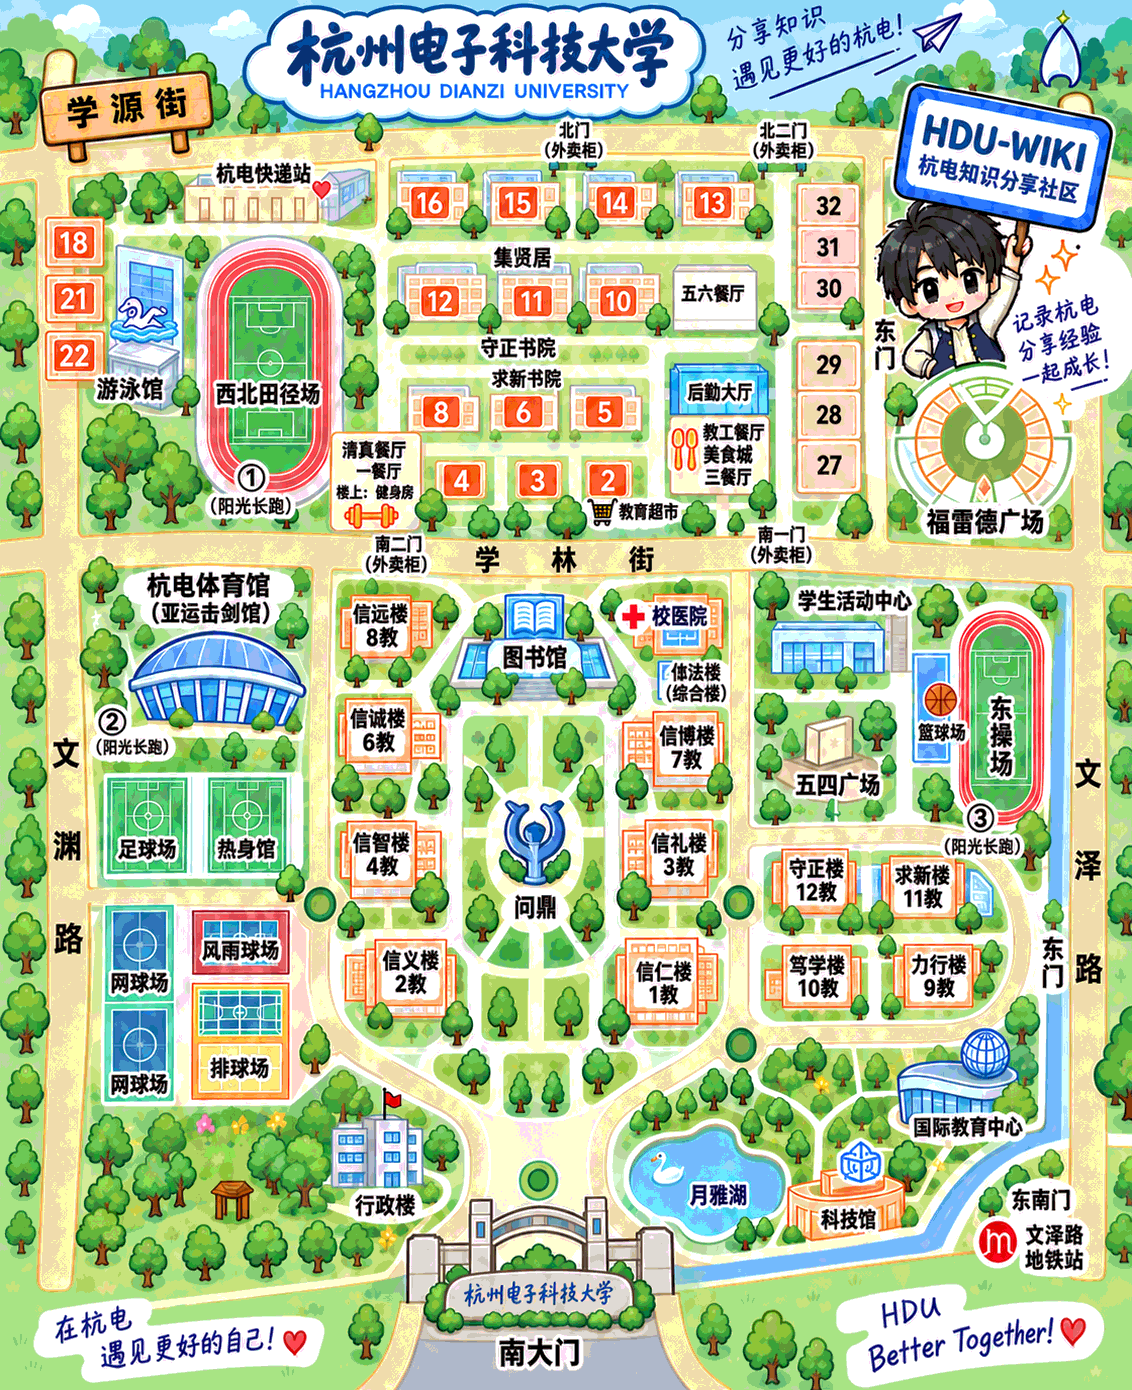
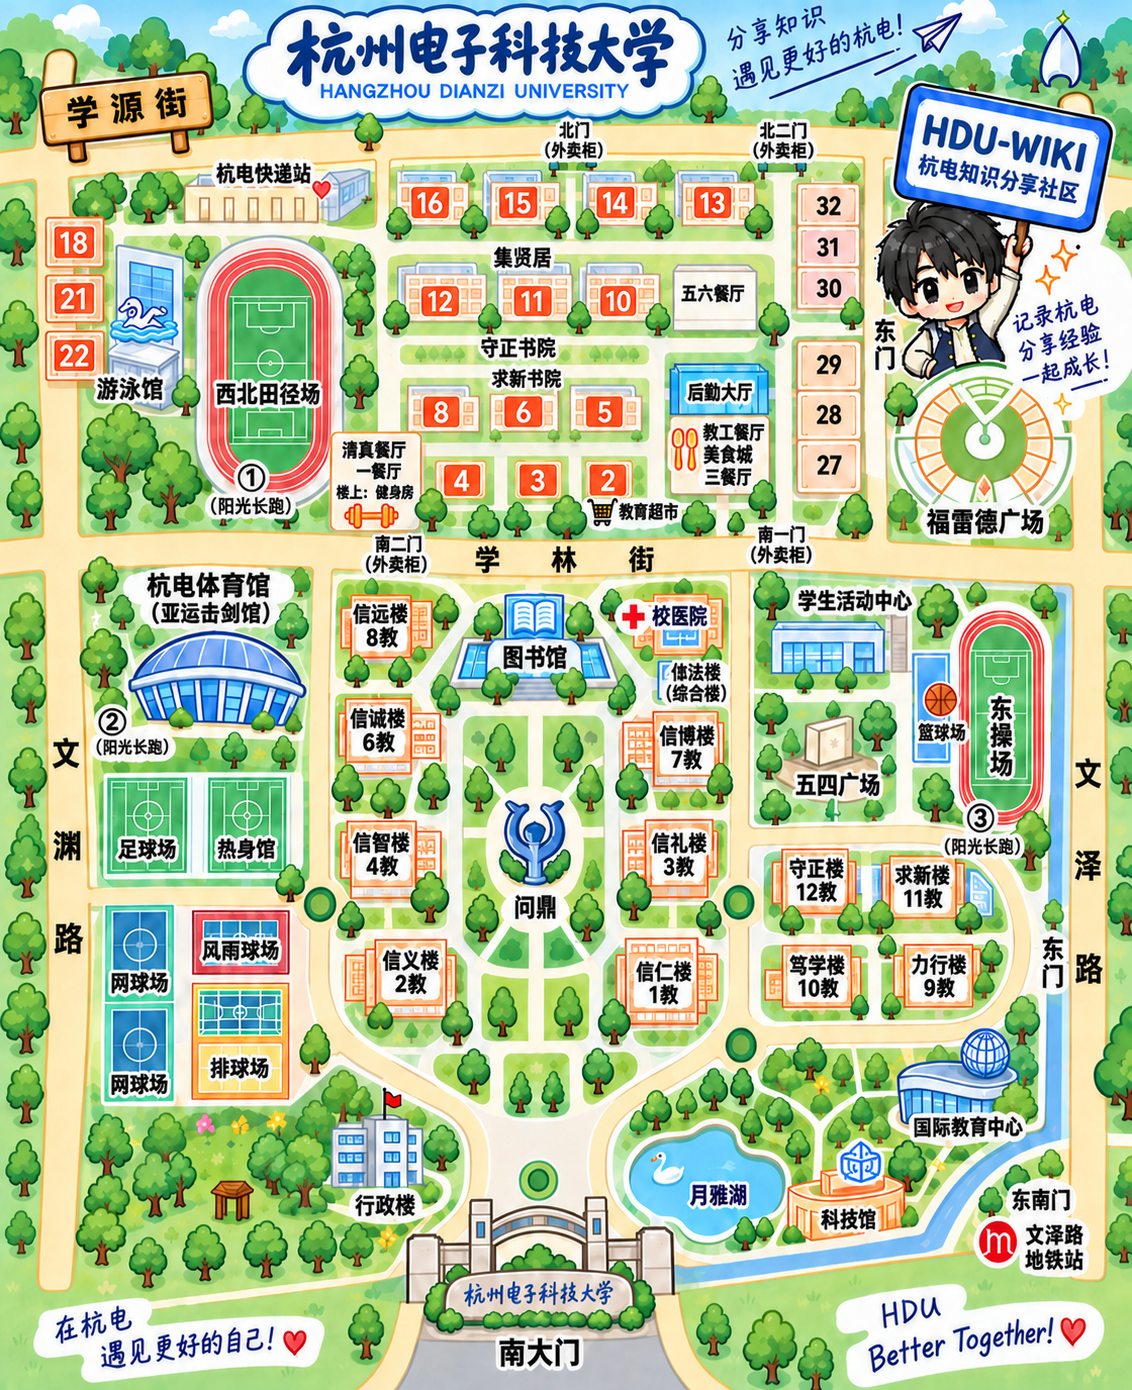
fix(welcome): 恢复插画原图清晰度 + WebP 按需变体 + 本地草稿忽略

Changed region(s): [[0.1855, 0.5568, 0.2473, 0.5878], [0.0928, 0.5568, 0.1546, 0.5878]]

diff --git a/app/welcome/welcome.css b/app/welcome/welcome.css
@@ -129,14 +129,14 @@
 @media(max-width:800px){.pw-signposts{left:15%;right:15%;top:89%}.pw-signpost{padding:6px 8px;gap:2px 5px;border-width:2px}.pw-signpost strong{font-size:11px}.pw-signpost small{font-size:9px}.pw-signpost>span{font-size:20px}.pw-chat{left:8px;right:8px;bottom:54px;padding:16px 32px 16px 12px;gap:10px}.pw-chat-avatar{padding:5px}.pw-chat p{font-size:14px}.pw-chat strong{font-size:14px}.pw-chat small{font-size:11px}.pw-bless-fab{right:12px;bottom:calc(12px + env(safe-area-inset-bottom));padding:8px 12px 8px 8px;font-size:13px;gap:8px}.pw-campus-dialog header{padding:14px 16px}.pw-atlas-toolbar{padding:10px 16px}}
 /* Balanced desktop composition; the map scales to the available height. */
 @media(min-width:801px){.pixel-welcome{max-width:1440px;padding:0 clamp(24px,4vw,64px)}.pw-header{height:76px}.pw-layout{grid-template-columns:minmax(300px,.9fr) minmax(0,1.1fr);gap:clamp(28px,5vw,80px);padding:24px 0;min-height:calc(100svh - 76px);align-items:center}.pw-game{width:100%;max-width:min(660px,calc(100svh - 220px));justify-self:center}.pw-map{aspect-ratio:1}.pw-intro{max-width:460px}.pw-intro h1{font-size:clamp(40px,4vw,62px)}.pw-lead{margin:20px 0 24px}.pw-eyebrow{margin-bottom:20px}.pw-coordinate{margin-top:20px}.pw-status{min-height:38px;padding:6px 12px}.pw-game-bar{padding:11px 12px;font-size:11px}.pw-time,.pw-bgm{font-size:10px}.pw-characters button{padding:12px 10px}.pw-chat{bottom:45px;padding:15px 32px 15px 12px;gap:10px}.pw-chat p{font-size:14px}.pw-chat-avatar{padding:5px}.pw-chat strong{font-size:14px}}
-.pw-signposts{left:17%;right:17%;top:83%;height:16%;align-items:flex-start}.pw-signpost{display:block;width:23%;aspect-ratio:1;padding:0;border:0;background:transparent;box-shadow:none;isolation:isolate;text-align:center;transition:transform .18s ease}.pw-signpost:hover{background:transparent;transform:translateY(-3px)}.pw-signpost:after{display:none}.pw-signpost .pw-signpost-art{position:absolute;inset:0;background:url('/welcome/noticeboard.png') center/contain no-repeat;z-index:-1}.pw-signpost strong{position:absolute;left:16%;right:16%;top:76%;font-size:clamp(8px,.85vw,12px);line-height:1.2;letter-spacing:0;color:#4a3b26}.pw-signpost small{display:none}.pw-start{display:none}
+.pw-signposts{left:17%;right:17%;top:83%;height:16%;align-items:flex-start}.pw-signpost{display:block;width:23%;aspect-ratio:1;padding:0;border:0;background:transparent;box-shadow:none;isolation:isolate;text-align:center;transition:transform .18s ease}.pw-signpost:hover{background:transparent;transform:translateY(-3px)}.pw-signpost:after{display:none}.pw-signpost .pw-signpost-art{position:absolute;inset:0;background:url('/welcome/noticeboard.webp') center/contain no-repeat;z-index:-1}.pw-signpost strong{position:absolute;left:16%;right:16%;top:76%;font-size:clamp(8px,.85vw,12px);line-height:1.2;letter-spacing:0;color:#4a3b26}.pw-signpost small{display:none}.pw-start{display:none}
 .pw-campus-dialog{width:min(760px,92vw);height:auto;max-height:90svh}.pw-atlas-scroll{display:flex;justify-content:center;align-items:flex-start;padding:12px;background:#e7ebdc}.pw-atlas-scroll img{width:auto;height:auto;max-width:100%;max-height:calc(90svh - 170px);object-fit:contain}.pw-atlas-scroll:has(.is-zoomed){display:block}.pw-atlas-scroll img.is-zoomed{width:1132px;height:auto;max-width:none;max-height:none}
 @media(max-width:800px){.pw-signpost strong{font-size:clamp(7px,2vw,11px)}.pw-signposts{left:15%;right:15%;top:84%}.pw-signpost{width:24%}.pw-atlas-scroll{padding:6px}.pw-campus-dialog h2{font-size:20px}.pw-atlas-toolbar{font-size:12px}.pw-map{aspect-ratio:1}}
 @media(prefers-reduced-motion:reduce){.pw-signpost{transition:none}}
 @media(max-width:800px){.pw-signposts{top:81%;left:15%;right:15%}.pw-signpost{width:23%}}
 /* Artwork-backed controls scale with their own frame, including narrow phones. */
-.pw-signpost{container-type:inline-size}.pw-signpost .pw-signpost-map{position:absolute;left:18%;top:30%;width:65%;height:39%;background-color:#f2e3bd;background-position:center;background-size:contain;background-repeat:no-repeat}.pw-signpost-map.xiasha{background-image:url('/welcome/xiasha-map-v4.png')}.pw-signpost-map.shaoxing{background-image:none}.pw-signpost-map.shaoxing:after{content:"✧";display:grid;place-items:center;height:100%;color:#96805a;font-size:24px}.pw-signpost strong{top:76%;left:18%;right:18%;font-size:9cqi;line-height:1.15;white-space:nowrap;overflow:hidden;text-overflow:clip;letter-spacing:0}.pw-signpost:hover strong{color:#294e3e}
-.pw-map-gift{position:absolute;left:58%;top:71%;width:7%;min-width:32px;aspect-ratio:1;transform:translateX(-50%);border:0;padding:0;background:none;color:#4a573f;z-index:9;cursor:pointer}.pw-map-gift>span{display:block;width:100%;height:100%;background:url('/welcome/gift.png') center/contain no-repeat;filter:drop-shadow(0 3px 1px #53633c35);transition:transform .2s}.pw-map-gift:hover>span{transform:translateY(-3px) rotate(-5deg)}.pw-map-gift small{display:block;position:absolute;top:100%;left:50%;transform:translateX(-50%);font-size:clamp(8px,.75vw,11px);line-height:1.5;white-space:nowrap;letter-spacing:.5px}
+.pw-signpost{container-type:inline-size}.pw-signpost .pw-signpost-map{position:absolute;left:18%;top:30%;width:65%;height:39%;background-color:#f2e3bd;background-position:center;background-size:contain;background-repeat:no-repeat}.pw-signpost-map.xiasha{background-image:url('/welcome/xiasha-thumb.webp')}.pw-signpost-map.shaoxing{background-image:none}.pw-signpost-map.shaoxing:after{content:"✧";display:grid;place-items:center;height:100%;color:#96805a;font-size:24px}.pw-signpost strong{top:76%;left:18%;right:18%;font-size:9cqi;line-height:1.15;white-space:nowrap;overflow:hidden;text-overflow:clip;letter-spacing:0}.pw-signpost:hover strong{color:#294e3e}
+.pw-map-gift{position:absolute;left:58%;top:71%;width:7%;min-width:32px;aspect-ratio:1;transform:translateX(-50%);border:0;padding:0;background:none;color:#4a573f;z-index:9;cursor:pointer}.pw-map-gift>span{display:block;width:100%;height:100%;background:url('/welcome/gift.webp') center/contain no-repeat;filter:drop-shadow(0 3px 1px #53633c35);transition:transform .2s}.pw-map-gift:hover>span{transform:translateY(-3px) rotate(-5deg)}.pw-map-gift small{display:block;position:absolute;top:100%;left:50%;transform:translateX(-50%);font-size:clamp(8px,.75vw,11px);line-height:1.5;white-space:nowrap;letter-spacing:.5px}
 .pw-player-name,.pw-library-player>span:last-child:not(.pw-sprite){max-width:120px;white-space:nowrap;overflow:hidden;text-overflow:ellipsis;line-height:1.5;font-size:10px;letter-spacing:.3px;padding:2px 5px;border-radius:3px}.pw-player-name{top:-18px}
 .pw-campus-dialog{width:fit-content;min-width:280px;max-width:94vw;max-height:92svh;border:0;border-radius:18px;background:#f8f4e9;box-shadow:0 30px 100px #0a231c55;padding:8px;overflow:hidden}.pw-campus-dialog::backdrop{background:#19342ccc;backdrop-filter:blur(9px)}.pw-campus-dialog header{padding:10px 12px 14px;border:0;gap:28px}.pw-campus-dialog header small{font-size:9px;letter-spacing:2px;color:#86917d}.pw-campus-dialog h2{font-size:20px;line-height:1.25;margin:4px 0 0;letter-spacing:1px}.pw-campus-dialog header nav{display:flex;align-items:center;gap:8px}.pw-campus-dialog header button{display:grid;place-items:center;width:34px;height:34px;background:#e9edde;border-radius:50%;padding:0;font-size:23px}.pw-campus-dialog header .pw-atlas-zoom{font-size:12px;width:auto;padding:0 13px;border-radius:18px;white-space:nowrap}.pw-atlas-scroll{padding:0;border-radius:10px;background:transparent;display:block;overflow:auto;max-width:calc(94vw - 16px)}.pw-atlas-scroll img{display:block;width:auto;max-width:100%;height:auto;max-height:calc(92svh - 96px);margin:auto;object-fit:contain}.pw-atlas-scroll img.is-zoomed{max-width:none;max-height:none;width:1132px}.pw-atlas-scroll:has(.is-zoomed){width:min(1000px,calc(94vw - 16px));max-height:calc(92svh - 96px)}
 @media(max-width:800px){.pixel-welcome{padding:0 16px}.pw-header{height:60px;font-size:12px;gap:8px}.pw-brand{gap:7px}.pw-brand b{font-size:18px;padding:6px 9px}.pw-edition{font-size:9px;white-space:nowrap}.pw-layout{padding:20px 0;gap:22px;grid-template-columns:minmax(0,1fr)}.pw-intro h1{font-size:32px;letter-spacing:1px}.pw-intro h1>span{font-size:18px}.pw-characters{width:100%;max-width:none;gap:8px}.pw-characters button{min-width:0;gap:7px;padding:9px 7px;font-size:16px}.pw-characters button>span:not(.pw-sprite){min-width:0}.pw-characters button small{font-size:8px;letter-spacing:0}.pw-characters .pw-sprite{width:32px}.pw-characters b{font-size:13px}.pw-map{aspect-ratio:1}.pw-game-bar{gap:6px;flex-wrap:wrap;padding:9px 10px;font-size:10px;letter-spacing:0}.pw-game-bar-right{gap:8px}.pw-time,.pw-bgm{font-size:10px;white-space:nowrap}.pw-map-gift{width:9%;min-width:28px}.pw-map-gift small{font-size:8px}.pw-status{min-height:36px;padding:7px 10px}.pw-signposts{left:12%;right:12%;top:81%}.pw-signpost{width:23%}.pw-building-label{font-size:clamp(7px,2.2vw,10px);padding:3px 4px;gap:2px}.pw-building-label small{font-size:7px}.pw-building-label i{font-size:8px}.pw-player-name{font-size:8px;max-width:90px}.pw-moonsilver>span:not(.pw-sprite){font-size:7px;padding:2px 4px}.pw-chat{bottom:43px;padding:12px 30px 12px 10px;gap:8px}.pw-chat-avatar .pw-sprite{width:30px}.pw-chat p{font-size:12px;margin:6px 0}.pw-chat strong{font-size:12px}.pw-chat small{font-size:10px}.pw-chat button{font-size:11px}.pw-shortcuts strong{font-size:13px}.pw-shortcuts span{font-size:8px;letter-spacing:1px}.pw-footer{font-size:10px;line-height:1.7}.pw-checkin-window{max-height:90svh;overflow:auto}.pw-checkin-body{padding:22px 18px}.pw-checkin-title{font-size:24px}.pw-checkin-input{font-size:16px}.pw-campus-dialog{border-radius:14px;padding:6px}.pw-campus-dialog header{padding:8px 8px 12px;gap:12px}.pw-campus-dialog h2{font-size:18px}.pw-atlas-scroll img{max-height:calc(92svh - 88px)}}
@@ -148,7 +148,7 @@
 .pw-sprite-crop{height:calc(var(--sprite-height)*100%/224);background-image:url('/welcome/walk-atlas-v2.png');background-size:639.375% calc(153700%/var(--sprite-height));background-position-x:88.296639%}
 .pw-player.walking .pw-sprite-body,.pw-library-player.is-walking .pw-sprite-body{clip-path:none;transform:none;animation:none!important;background-position-x:88.296639%}
 /* Both boards preview the same artwork opened in their dialogs. */
-.pw-signpost-map.shaoxing{background-image:url('/welcome/shaoxing-map-v2.png')}.pw-signpost-map.shaoxing:after{content:none}
+.pw-signpost-map.shaoxing{background-image:url('/welcome/shaoxing-thumb.webp')}.pw-signpost-map.shaoxing:after{content:none}
 .pw-campus-dialog{height:fit-content}
 .pw-chat{display:grid!important;grid-template-columns:96px minmax(0,1fr);align-items:center!important;gap:18px!important}
 .pw-chat-avatar{width:96px!important;height:104px!important;box-sizing:border-box;display:grid!important;place-items:center!important;padding:8px!important;align-self:center!important;justify-self:center!important}
@@ -207,10 +207,15 @@
 .pw-chat-avatar .pw-moonsilver-sprite .pw-sprite-body{height:100%!important;background-size:400% 100%!important}
 .pw-moonsilver-sprite{}
 .pw-moonsilver>.pw-moonsilver-sprite{display:block!important;width:100%!important;min-width:0;height:auto!important;aspect-ratio:150/192!important;overflow:hidden!important;margin-inline:auto}
-.pw-moonsilver>.pw-moonsilver-sprite .pw-sprite-body{height:100%!important;background-image:url('/welcome/moonsilver-v2.png')!important;background-size:400% 100%!important;background-position-y:50%!important}
-.pw-moonsilver-sprite .pw-sprite-body{background-image:url('/welcome/moonsilver-v2.png')!important;background-size:400% 100%!important;background-position-y:50%!important}
+.pw-moonsilver>.pw-moonsilver-sprite .pw-sprite-body{height:100%!important;background-image:url('/welcome/moonsilver-v2.webp')!important;background-size:400% 100%!important;background-position-y:50%!important}
+.pw-moonsilver-sprite .pw-sprite-body{background-image:url('/welcome/moonsilver-v2.webp')!important;background-size:400% 100%!important;background-position-y:50%!important}
 .pw-moonsilver-sprite .pw-sprite-body{background-image:url('/welcome/moonsilver.png');background-size:400% 100%;background-position-y:50%;}
 .pw-moonsilver-sprite[data-facing="down"] .pw-sprite-body{background-position-x:0}
 .pw-moonsilver-sprite[data-facing="left"] .pw-sprite-body{background-position-x:33.3333%}
 .pw-moonsilver-sprite[data-facing="right"] .pw-sprite-body{background-position-x:66.6667%}
 .pw-moonsilver-sprite[data-facing="up"] .pw-sprite-body{background-position-x:100%}
+/* 大地图弹窗加载占位 */
+.pw-atlas-loading{position:absolute;inset:0;display:grid;place-items:center;align-content:center;gap:14px;font-size:13px;letter-spacing:2px;color:#7a5b1c;background:repeating-linear-gradient(45deg,#efe8d2 0 14px,#e9e0c6 14px 28px)}
+.pw-atlas-loading i{width:22px;height:22px;border:3px solid #c9a13f;border-top-color:transparent;border-radius:50%;animation:pw-atlas-spin 1s linear infinite}
+@keyframes pw-atlas-spin{to{transform:rotate(360deg)}}
+.pw-atlas-scroll img.is-loading{opacity:0}
